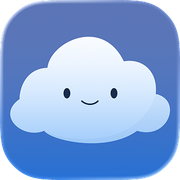
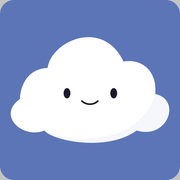
Refresh quiz expiry specs and brand assets
Updated the Calmisu quiz manual test plan to reflect the new end-of-day UTC expiry rules, iPhone flow pass status, and newer email verification notes. Also refreshed public brand assets, including favicons, email logo/avatar, and social icons used in the email/footer set.

diff --git a/context/spec/002-calm-profile-quiz/MANUAL-TEST-PLAN.md b/context/spec/002-calm-profile-quiz/MANUAL-TEST-PLAN.md
@@ -79,7 +79,7 @@ The automated suites already cover logic, payloads and DB rules (landing 57/57, 
   **Expect:** it states both clocks separately — activate within **7 days** (with the date, ~7 days from today), **14 days** of PRO once redeemed — says the code was emailed, and that it's redeemed in the app after creating an account. No digits appear on the page.
 - [x] ~~**D5. Copy button.**~~ **Removed 2026-09-23** — no code is displayed on the page anymore, so there is nothing to copy from the landing page (the code lives only in the email).
 - [x] **D6. DB row.** In Prisma Studio → `leads`.
-  **Expect:** one row with only `email, profile, source=quiz, platform=android, locale, consent=true, consentScope=quiz_plan_tips_v1, consentAt` (+ ids/tokens/timestamps). No answer columns. The linked `promo_codes` row has `expiresAt` ≈ now + **7 days**, `durationDays` 14, `maxUses` 1, and `code` is now **5 digits**.
+  **Expect:** one row with only `email, profile, source=quiz, platform=android, locale, consent=true, consentScope=quiz_plan_tips_v1, consentAt` (+ ids/tokens/timestamps). No answer columns. The linked `promo_codes` row has `expiresAt` = **23:59:59.999 UTC on the day 7 days out** (changed 2026-09-24: end of the deadline day, not signup time + 7×24h — so 7 to 8 days from now), `durationDays` 14, `maxUses` 1, and `code` is now **5 digits**. ⚠ **Re-check** after restarting the backend with the 2026-09-24 change.
 - [ ] **D7. Returning visit.** Reload the same URL.
   **Expect:** gate skipped, plan + code shown. Local Storage holds only `calmisu_quiz_unlocked`, `calmisu_quiz_promo_code`, `calmisu_quiz_promo_expires`.
 - [ ] **D8. Start button, app not installed.** On desktop, click a row's Start.
@@ -105,7 +105,7 @@ The automated suites already cover logic, payloads and DB rules (landing 57/57, 
 - [x] **F1. Same email twice.** Clear Local Storage; resubmit `you+q1@gmail.com` (Android).
   **Expect:** same code as D3; still one lead row.
 - [x] **F2. Expired code is replaced.** In Prisma Studio set that code's `expiresAt` to yesterday; clear storage; resubmit.
-  **Expect:** a new code with a fresh 7-day expiry.
+  **Expect:** a new code with a fresh expiry at the end (UTC) of the day 7 days out.
 - [x] **F3. Redeemed code → no new code.** Mark the current code as used (set its use count to its max, or redeem it in the app against the local backend); resubmit.
   **Expect:** no code shown.
 - [x] **F4. Rate limit.** Submit 6 times within an hour from the same browser.
@@ -119,7 +119,7 @@ The automated suites already cover logic, payloads and DB rules (landing 57/57, 
 
 - [x] **G1. Day 0, Android.** Check `you+q1@…`.
   **Expect:** plan email arrived; its plan link opens your exact plan; it shows your code.
-- [ ] **G2. Day 0, iPhone.** Check `you+q2@…`.
+- [x] **G2. Day 0, iPhone.** Check `you+q2@…`.
   **Expect:** plan email with no code and an App Store notice.
 - [x] **G3. Sequence dry-run.** In Prisma Studio set `you+q1`'s `createdAt` to 2 days ago. From `kumo_back-end`, trigger the job once (ask the chat to write a one-off `tsx` script calling `runQuizSequence(prisma, logger)` from `src/jobs/quizSequence.ts` — don't commit it).
   **Expect:** Day 2 email arrives; a `lead_emails` row for day 2 exists. Run again → no second Day 2 email.
@@ -213,6 +213,11 @@ When K1–K6 pass, run `/awos:verify` to tick the functional-spec criteria and c
 | H1–H2 | Pass | Static check of `npm run build` output: CTA in all 7 posts, 5 distinct button texts, hrefs `/quiz/?src=blog_<slug>`, before the download block |
 | G1 | Pass | Screenshot: Day 0 email has plan link with the exact plan params and a 5-digit code. Caveat: the earlier email (code 51020) says "activate by October 8" = 15 days, so it was minted before the 7-day change, not by the current backend |
 | G3–G6 inbox | Confirmed | Screenshot: Day 0, Day 2 ("Why breathing out longer..."), Day 5 ("Same time, every day") and Day 6 ("Your code expires tomorrow") arrived; Day 2/5 show "2" (q1 + q2 iOS), Day 6 single (q1 only) as expected. **Some emails landed in Gmail spam** — check SPF/DKIM/DMARC for noreply@calmisu.com before launch |
+| F2 / G5 (DB) | Pass | 2026-09-24, Prisma Studio: `30571` expiry edited to 22 Sept → resubmit minted `01467` (created 127 ms after the edit); `01467` expiry set ~24 h ahead → Day 6 email sent 18:33 local (14:33Z) with 01467, "September 24, 2026". Confirms expired-unredeemed → fresh code, and the ≤48 h Day 6 gate |
+| One code per lead | Pass | Each new code replaced the lead's expired one; no daily rotation. The two different codes seen in the inbox (`51020` on `you@`, `30571`/`01467` on `you+q1@`) belong to different leads / an expired-then-reissued code. `51020` and `6271661384` are older 15-day dev codes (expire 8 Oct) |
+| Redeem in app | Pass (partial) | 2026-09-24: redeemed a quiz code in the dev app the day after it was issued → Subscription shows Premium until 8 Oct = redemption date + 14 days (counts from activation, not issue date). Which exact code, and the second-use rejection, not recorded |
+| Expiry rounding | Fixed, automated only | 2026-09-24: `expiresAt` now end of day UTC and emails format dates in UTC. Backend `test/leads` 48/48 pass. **Manual re-check still to do** — D4, D6, F2 and a fresh Day 0 email date |
+| G2 | Pass | Screenshot: `+q2` Day 0 email has the plan link, no code, and "Calmisu isn't on the App Store yet — we'll let you know the moment it lands." |
 | H3 | Not done | CTA is pure Astro markup (no island); Network-tab comparison vs main left to you |
 
 **Known open item:** functional-spec.md §2.1 quotes the trust line as `Free · 2 minutes · No account needed`; the site ships `Free · No account needed · Not a diagnosis`. Decide which is right and fix the spec (or the copy).
